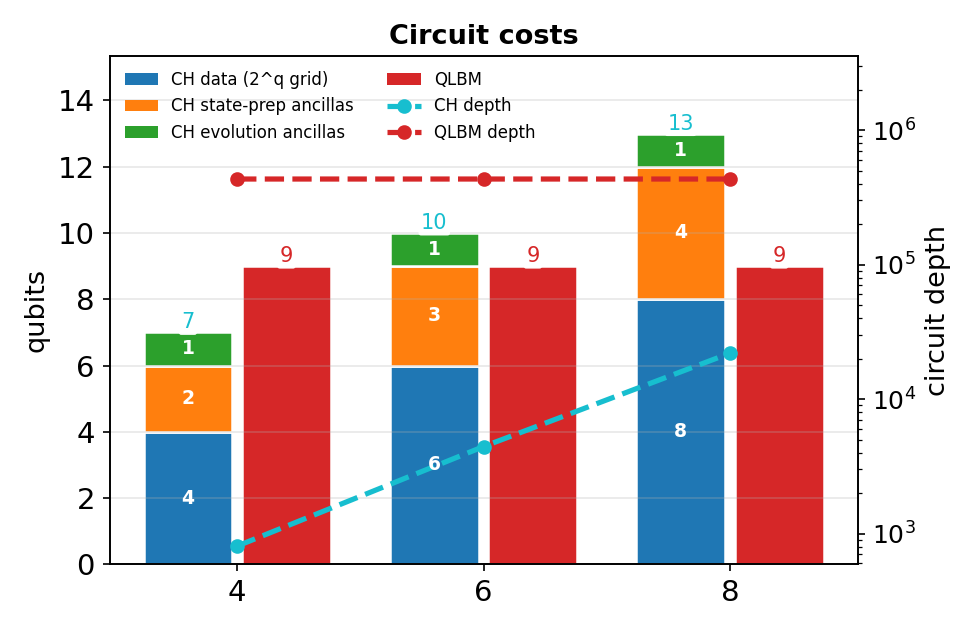
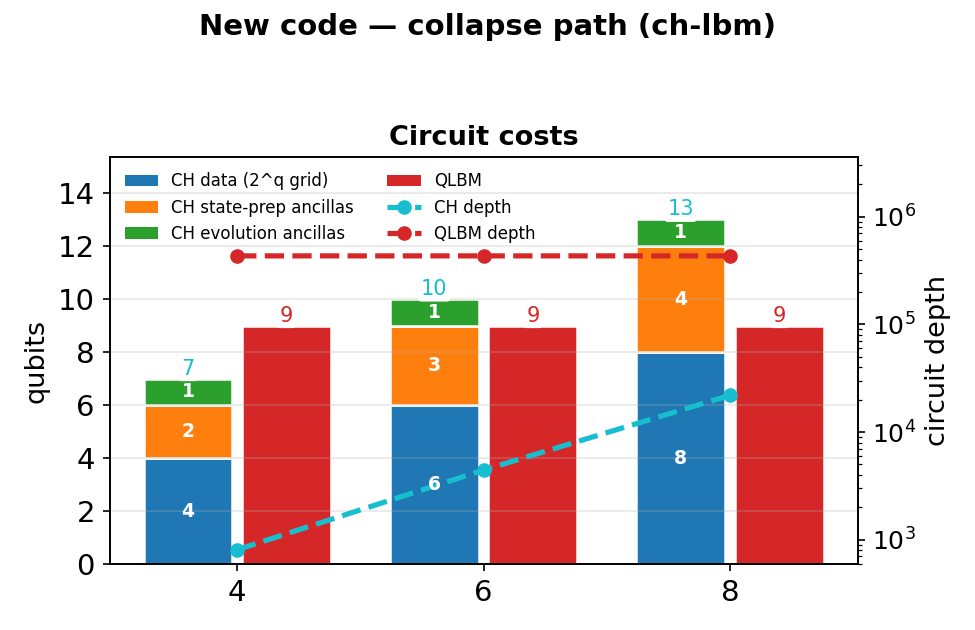
add title

diff --git a/aux/burgers-ch-lbm-June2026/postproc/plot_dataset_movie.py b/aux/burgers-ch-lbm-June2026/postproc/plot_dataset_movie.py
@@ -252,6 +252,11 @@ def main() -> None:
         help="with --still, which panel to save (default both). 'profile' "
              "= the u(x,t) panel, 'error' = the L2 panel only.",
     )
+    ap.add_argument(
+        "--title", default=None,
+        help="optional title drawn above the saved still (e.g. to mark a "
+             "code variant such as the collapse path).",
+    )
     args = ap.parse_args()
 
     # Shared figure style (must match the sibling script's figures): large
@@ -439,6 +444,15 @@ def main() -> None:
             fidx = int(tok)
         fidx = max(0, min(fidx, len(frame_times) - 1))
         update(fidx)
+        # Optional variant-marking title.  For the error-only panel put it on
+        # that axis (a fig suptitle would fall outside the tight crop); for a
+        # profile/both save the profile title slot already holds the physics
+        # subtitle, so the marker goes above as a figure suptitle.
+        if args.title:
+            if args.panel == "error" and have_err:
+                ax_err.set_title(args.title, fontsize=16, fontweight="bold")
+            else:
+                fig.suptitle(args.title, fontsize=16, fontweight="bold")
         out = Path(args.out) if args.out else ds_path.with_name(
             f"{ds_path.stem}_still_{fidx}_{args.panel}.png")
         fig.canvas.draw()
@@ -455,7 +469,8 @@ def main() -> None:
             fig.canvas.draw()
             fig.savefig(str(out), dpi=150, bbox_inches="tight", pad_inches=0.1,
                         bbox_extra_artists=[panel_ax.yaxis.label,
-                                            panel_ax.xaxis.label])
+                                            panel_ax.xaxis.label,
+                                            panel_ax.title])
             other_ax.set_visible(True)
         plt.close(fig)
         # Provenance sidecar next to the still: how it was made (code +

diff --git a/aux/burgers-ch-lbm-June2026/postproc/plot_circuit_resources_bakeoff.py b/aux/burgers-ch-lbm-June2026/postproc/plot_circuit_resources_bakeoff.py
@@ -188,6 +188,10 @@ def main() -> None:
     ap.add_argument("--out-twin", default=None,
                     help="compact single-panel PNG: qubit bars (left, "
                          "linear) + circuit cost lines (right, log)")
+    ap.add_argument("--title", default=None,
+                    help="optional figure suptitle to mark a code variant "
+                         "(e.g. the collapse path); applies to the "
+                         "--out-twin panel.")
     args = ap.parse_args()
     if args.out_a or args.out_b:
         args.split = True
@@ -413,7 +417,11 @@ def main() -> None:
             handles=part_h + [qlbm_patch] + cost_metric_h,
             loc="upper left", fontsize=8, frameon=False, ncol=2,
         )
-        fig_t.tight_layout()
+        if args.title:
+            fig_t.suptitle(args.title, fontsize=14, fontweight="bold")
+            fig_t.tight_layout(rect=(0, 0, 1, 0.92))
+        else:
+            fig_t.tight_layout()
         out_t = Path(args.out_twin)
         fig_t.savefig(str(out_t), dpi=150)
         plt.close(fig_t)
